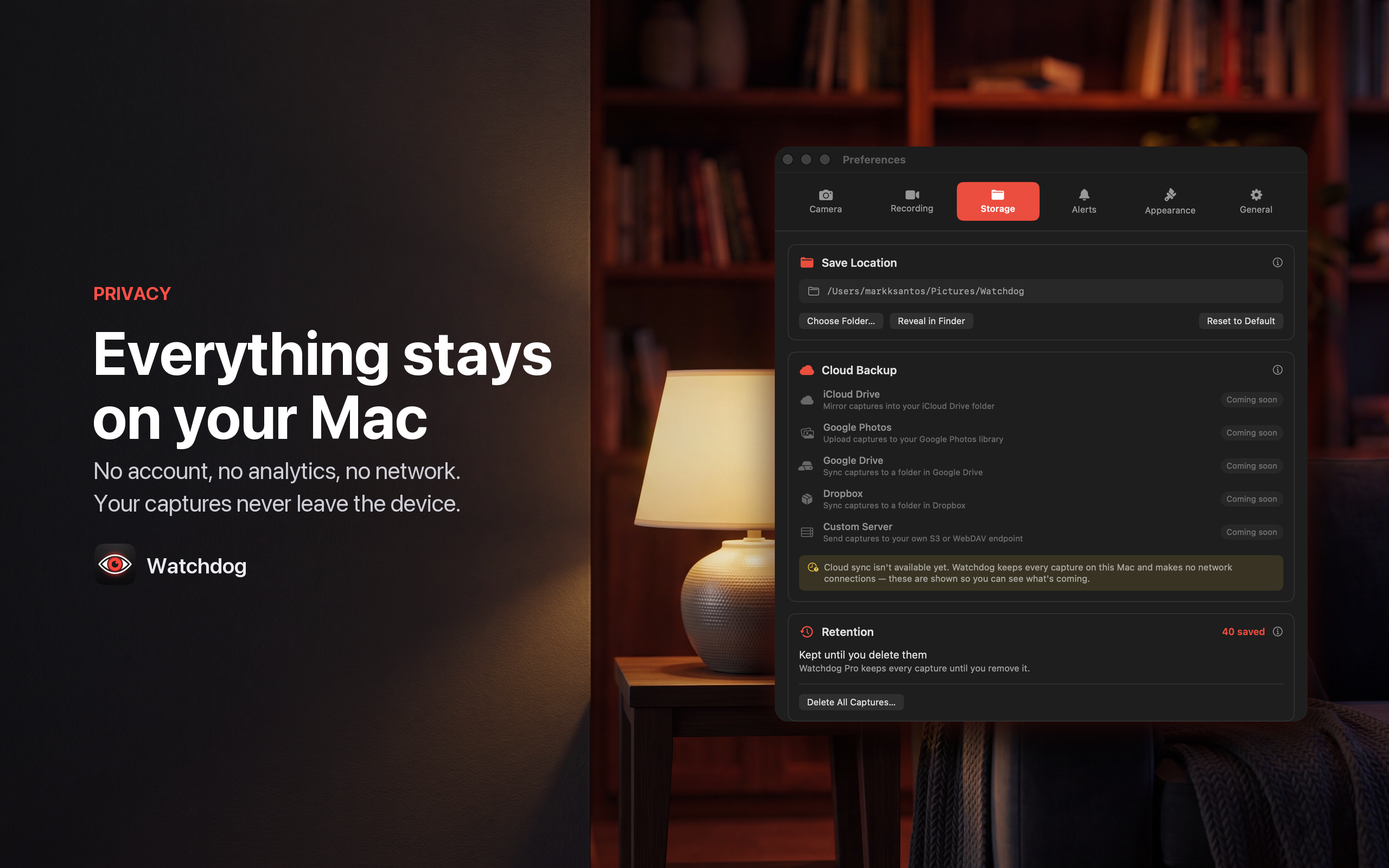
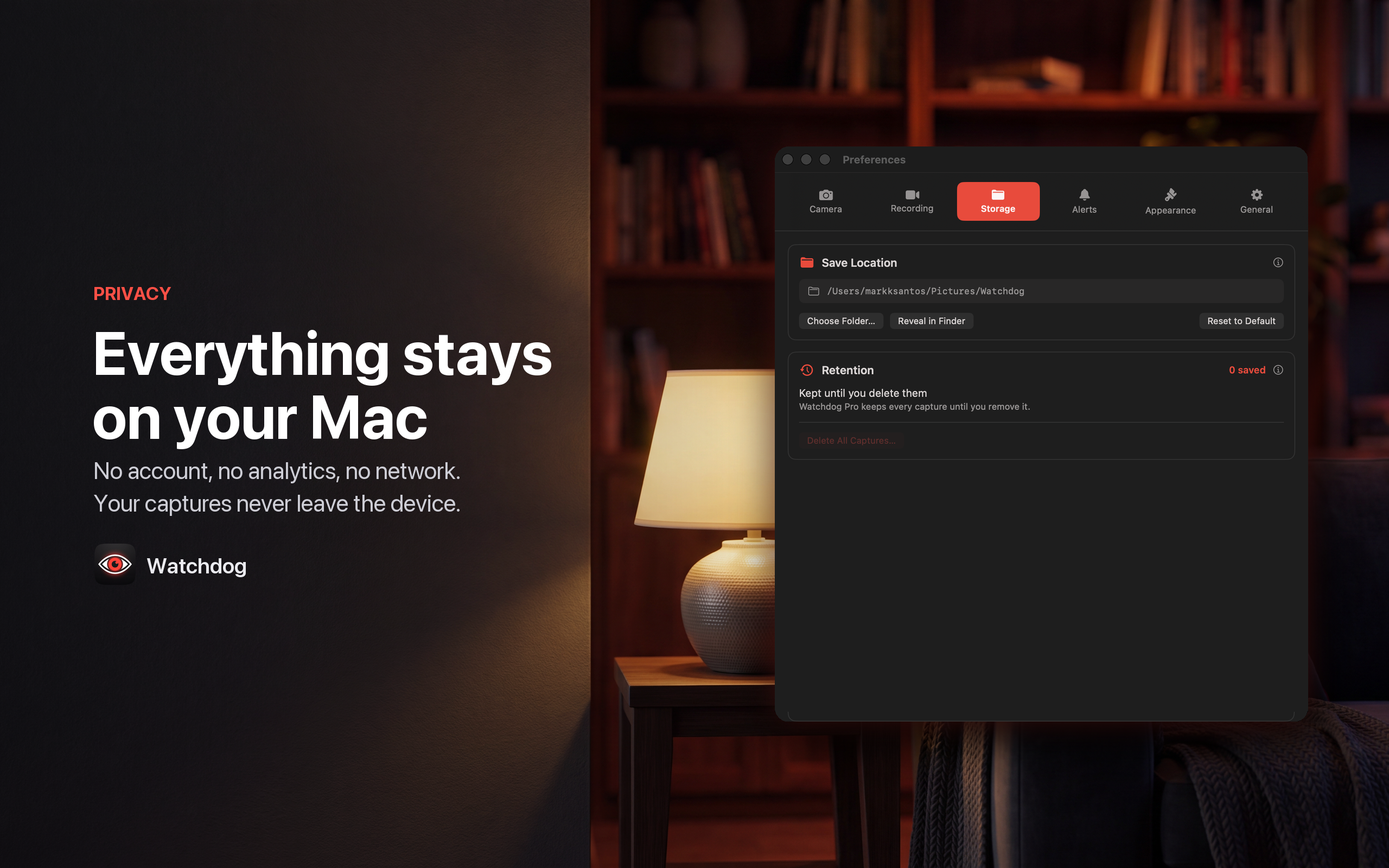
Recapture the privacy screenshot without the Cloud Backup panel
06-privacy.png was advertising a panel the app no longer has. The working
tree's StorageTab.swift drops the Cloud Backup card — it was five inert
"Coming soon" rows for a feature with no network entitlement to build on —
so the frame showed a Storage tab that does not exist.

That frame was queued for App Store Connect, where a screenshot of a
non-existent feature is a review risk, not just a stale asset.

Recaptured from a real build of the current tree (swift build clean, 40
tests passing), then composited back into the same scene: the window rect
was recovered by matching the unchanged titlebar/tabs/Save Location region
against the old frame, so placement and scale are the originals rather than
re-eyeballed. The original titlebar and bottom rounding are kept from the
old composite, which preserves the grey traffic lights the other five
frames have — a fresh capture has them coloured, since the window is
focused when you click into it.

Two things to weigh before uploading: the tab is now visibly sparse with
Cloud Backup gone, and Retention reads "0 saved" with Delete All Captures
disabled, because this was a clean build with an empty capture folder. Both
are accurate. Neither is flattering.

The plain gallery/ fallback set has the same problem in 06-storage.png and
has not been regenerated; flagged in the README instead.

Committed with explicit paths — unrelated in-progress work in the tree is
left untouched.
[…]

diff --git a/marketing/appstore/README.md b/marketing/appstore/README.md
@@ -30,6 +30,10 @@ would risk rejection — that's why these are composites, not illustrations.
 The earlier set: real UI on a flat branded gradient. Cleaner but less punchy. Keep as a fallback
 or for a minimalist listing.
 
+⚠ **`06-storage.png` in this set is out of date** — it still shows the Cloud Backup panel that
+`StorageTab.swift` no longer renders. The cinematic `06-privacy.png` has been regenerated; this
+one has not. Recapture it before using this set.
+
 ## `video/` — App Preview video
 
 - `watchdog-preview.mp4` — 1920×1080, H.264, 24s, 30fps. Within Apple's 15–30s App Preview spec.
